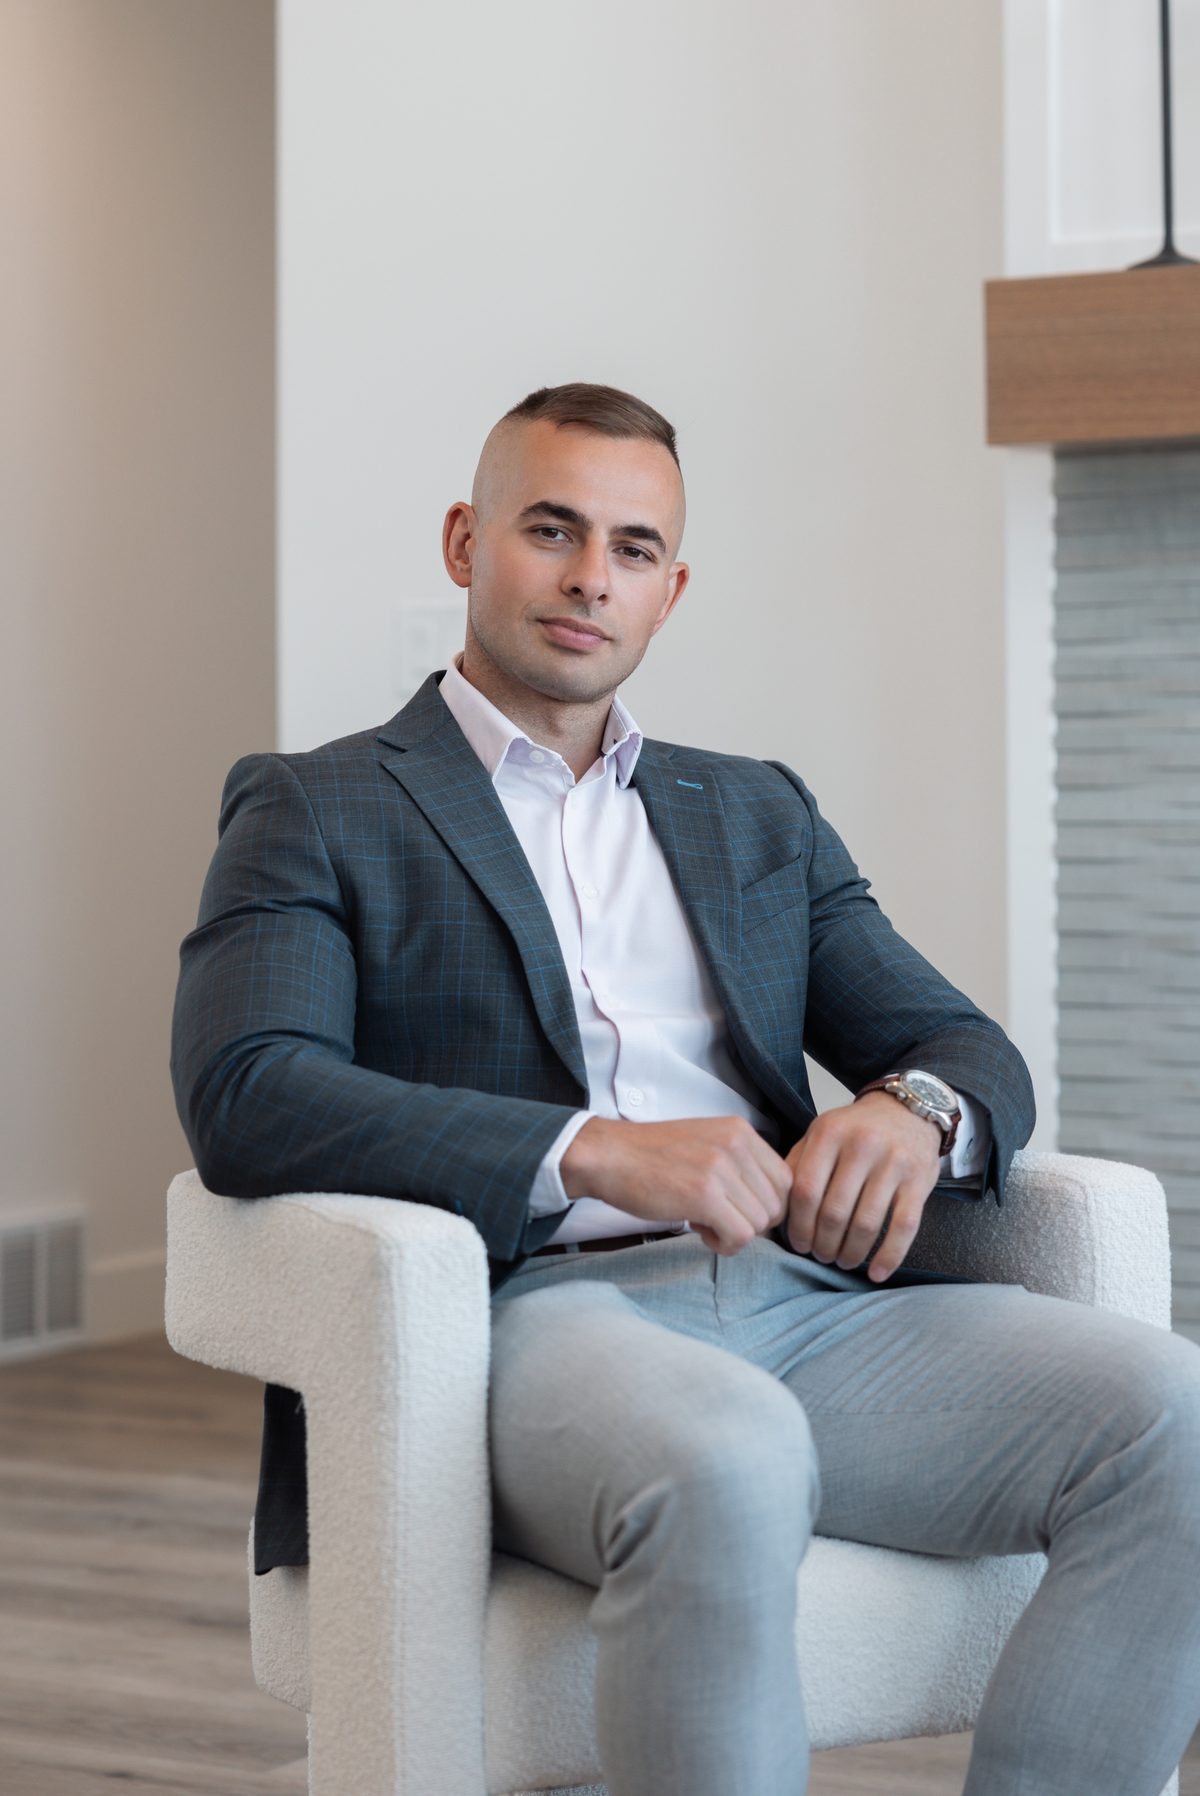
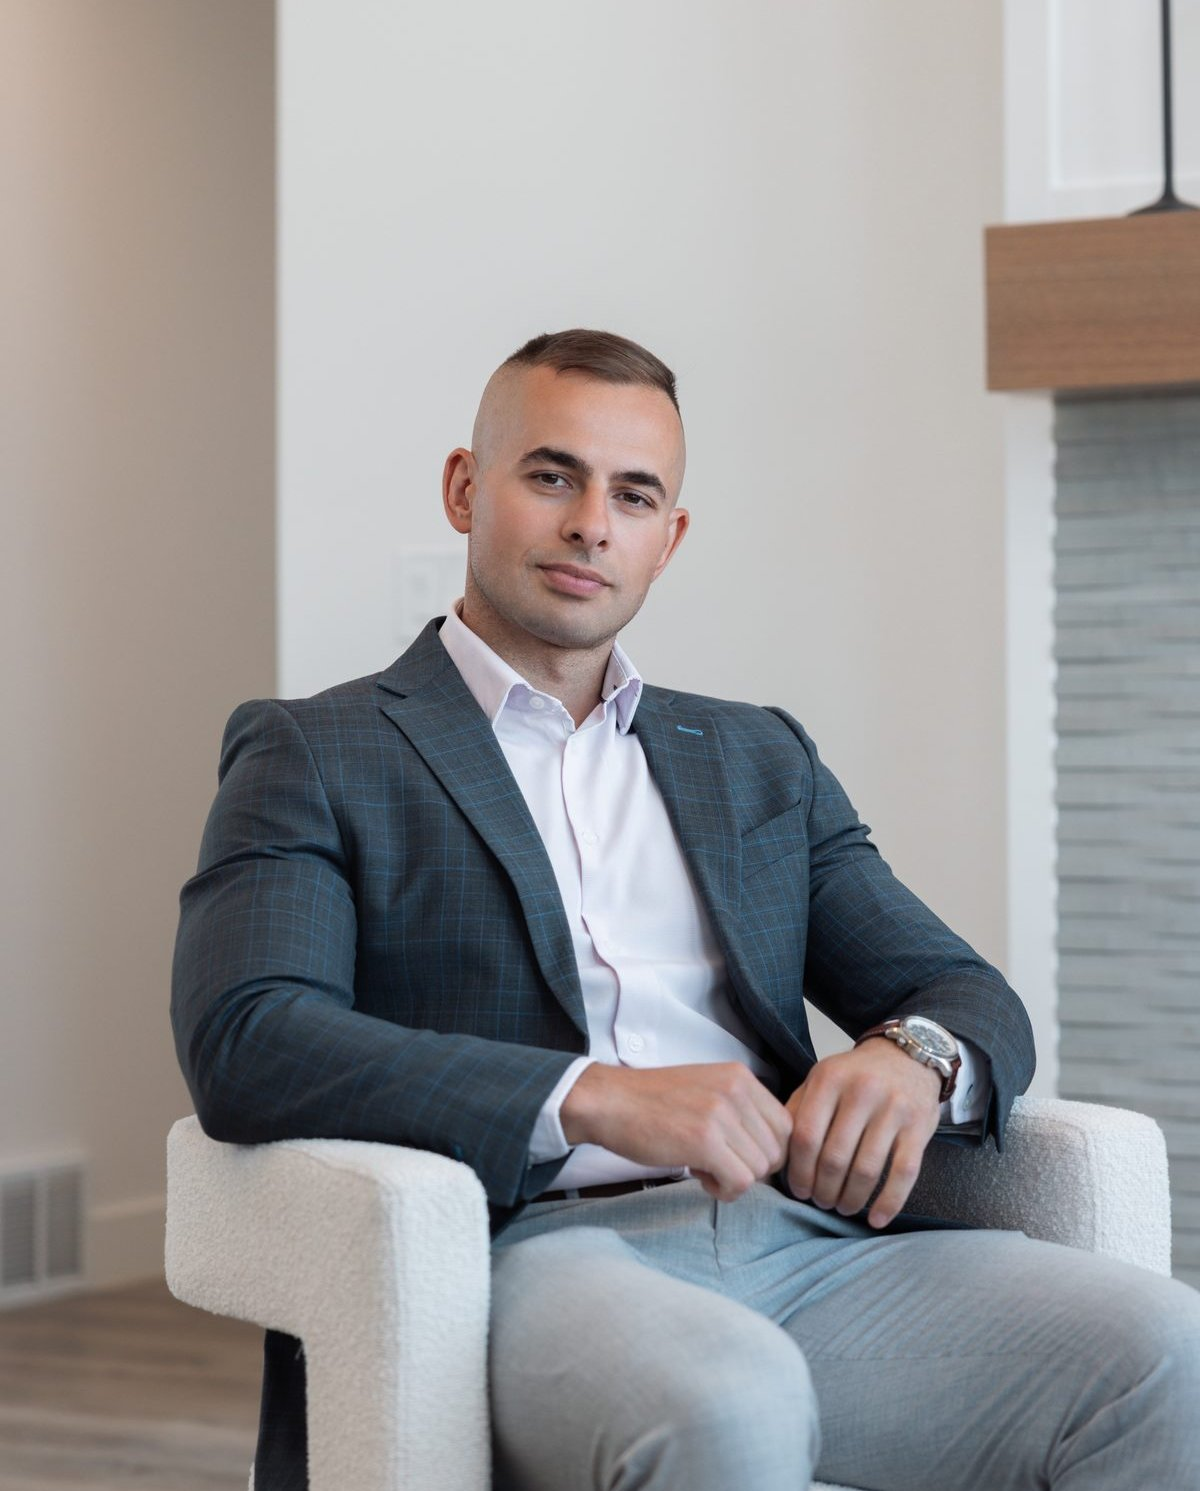
Add files via upload

diff --git a/assets/site.css b/assets/site.css
@@ -33,8 +33,8 @@
   --serif:'Cormorant Garamond','Hoefler Text',Didot,Georgia,'Times New Roman',serif;
   --sans:'Inter',-apple-system,BlinkMacSystemFont,'Segoe UI',Roboto,Helvetica,Arial,sans-serif;
 
-  --wrap:1120px;
-  --narrow:720px;
+  --wrap:1280px;
+  --narrow:860px;
   --pad:clamp(20px,5vw,56px);
   --ease:cubic-bezier(.22,.61,.36,1);
 
@@ -257,9 +257,17 @@ hr{border:0;border-top:1px solid var(--rule);margin:0;}
 @media(max-width:860px){ .split,.split-wide{grid-template-columns:1fr;} }
 
 /* ---------- Photo row ---------- */
-.photo-row{display:grid;grid-template-columns:repeat(auto-fit,minmax(230px,1fr));gap:12px;}
-.photo-row figure{margin:0;}
-.photo-row img{width:100%;height:230px;object-fit:cover;border-radius:2px;}
+.photo-row{display:grid;grid-template-columns:repeat(auto-fit,minmax(260px,1fr));gap:14px;}
+.photo-row figure{margin:0;overflow:hidden;border-radius:2px;}
+.photo-row img{
+  width:100%;aspect-ratio:3/2;object-fit:cover;object-position:center 22%;
+  filter:grayscale(1) contrast(1.04);
+  transition:filter .5s var(--ease),transform .5s var(--ease);
+}
+@media(hover:hover){
+  .photo-row figure:hover img{filter:grayscale(0) contrast(1);transform:scale(1.03);}
+}
+@media(hover:none){ .photo-row img{filter:none;} }
 .photo-row figcaption{margin-top:8px;}
 
 /* ---------- Disclosure list ---------- */
@@ -296,7 +304,7 @@ hr{border:0;border-top:1px solid var(--rule);margin:0;}
 .prose h2{font-family:var(--serif);font-size:clamp(1.65rem,2.6vw,2.1rem);font-weight:400;
   color:#fff;margin:2.1em 0 .65em;}
 .prose figure{margin:2.6em 0;}
-.prose figure img{width:100%;max-height:560px;object-fit:cover;object-position:center 28%;border-radius:2px;}
+.prose figure img{width:100%;height:auto;border-radius:2px;}
 .prose figcaption{margin-top:10px;}
 
 /* ---------- Form card ---------- */
@@ -400,7 +408,7 @@ textarea.inp{resize:vertical;min-height:84px;line-height:1.6;}
 /* ---------- Closing CTA block ---------- */
 .cta-block{display:grid;grid-template-columns:1.1fr .9fr;gap:clamp(26px,4vw,56px);align-items:center;}
 .cta-actions{display:flex;flex-wrap:wrap;gap:12px;margin-top:26px;}
-.cta-block figure img{width:100%;max-height:440px;object-fit:cover;object-position:center 22%;border-radius:2px;}
+.cta-block figure img{width:100%;height:auto;border-radius:2px;}
 @media(max-width:800px){ .cta-block{grid-template-columns:1fr;} }
 
 /* ---------- Footer ---------- */

diff --git a/index.html b/index.html
@@ -28,15 +28,14 @@
 <header class="site-head">
   <div class="wrap head-in">
     <a class="mark" href="index.html">
-      <span class="mark-name">Emanuel Balmus</span>
-      <span class="mark-sub">Real Broker, LLC &nbsp;/&nbsp; The Perry Group</span>
+      <span class="mark-name">Start Here</span>
     </a>
 
     <nav class="nav-links" id="navLinks" aria-label="Main">
       <a href="buyers.html">Buying</a>
       <a href="sellers.html">Selling</a>
       <a href="tools.html">Calculators</a>
-      <a href="story.html">About me</a>
+      <a href="story.html">About</a>
       <a href="contact.html">Contact</a>
     </nav>
 
@@ -420,12 +419,8 @@
              alt="Emanuel toasting with two clients at a closing table">
       </figure>
       <figure>
-        <img src="images/closing-c.jpg" width="1400" height="622"
+        <img src="images/closing-c.jpg" width="1500" height="919"
              alt="Emanuel with a couple on their closing day">
-      </figure>
-      <figure>
-        <img src="images/closing-a.jpg" width="1200" height="528"
-             alt="Emanuel with two clients celebrating a new home">
       </figure>
     </div>
     <p class="small" style="margin-top:12px">Closing days, Utah County.</p>
@@ -538,7 +533,7 @@
       </div>
     </div>
     <figure style="margin:0">
-      <img src="images/portrait-casual.jpg" width="1200" height="947" style="border-radius:3px"
+      <img src="images/portrait-casual.jpg" width="1500" height="1280" style="border-radius:3px"
            alt="Emanuel Balmus outdoors in the Wasatch mountains">
     </figure>
   </div>
@@ -572,7 +567,7 @@
           <li><a href="buyers.html">Buying a home</a></li>
           <li><a href="sellers.html">Selling a home</a></li>
           <li><a href="tools.html">Calculators</a></li>
-          <li><a href="story.html">About me</a></li>
+          <li><a href="story.html">About</a></li>
           <li><a href="contact.html">Contact</a></li>
         </ul>
       </div>

diff --git a/story.html b/story.html
@@ -25,14 +25,13 @@
 <header class="site-head">
   <div class="wrap head-in">
     <a class="mark" href="index.html">
-      <span class="mark-name">Emanuel Balmus</span>
-      <span class="mark-sub">Real Broker, LLC &nbsp;/&nbsp; The Perry Group</span>
+      <span class="mark-name">Start Here</span>
     </a>
     <nav class="nav-links" id="navLinks" aria-label="Main">
       <a href="buyers.html">Buying</a>
       <a href="sellers.html">Selling</a>
       <a href="tools.html">Calculators</a>
-      <a href="story.html" aria-current="page">About me</a>
+      <a href="story.html" aria-current="page">About</a>
       <a href="contact.html">Contact</a>
     </nav>
     <div class="head-cta">
@@ -176,7 +175,7 @@
       </div>
     </div>
     <figure style="margin:0">
-      <img src="images/portrait-casual.jpg" width="1200" height="947" style="border-radius:3px"
+      <img src="images/portrait-casual.jpg" width="1500" height="1280" style="border-radius:3px"
            alt="Emanuel Balmus outdoors in the Wasatch mountains">
     </figure>
   </div>
@@ -207,7 +206,7 @@
           <li><a href="buyers.html">Buying a home</a></li>
           <li><a href="sellers.html">Selling a home</a></li>
           <li><a href="tools.html">Calculators</a></li>
-          <li><a href="story.html">About me</a></li>
+          <li><a href="story.html">About</a></li>
           <li><a href="contact.html">Contact</a></li>
         </ul>
       </div>

diff --git a/buyers.html b/buyers.html
@@ -24,14 +24,13 @@
 <header class="site-head">
   <div class="wrap head-in">
     <a class="mark" href="index.html">
-      <span class="mark-name">Emanuel Balmus</span>
-      <span class="mark-sub">Real Broker, LLC &nbsp;/&nbsp; The Perry Group</span>
+      <span class="mark-name">Start Here</span>
     </a>
     <nav class="nav-links" id="navLinks" aria-label="Main">
       <a href="buyers.html" aria-current="page">Buying</a>
       <a href="sellers.html">Selling</a>
       <a href="tools.html">Calculators</a>
-      <a href="story.html">About me</a>
+      <a href="story.html">About</a>
       <a href="contact.html">Contact</a>
     </nav>
     <div class="head-cta">
@@ -252,7 +251,7 @@
       </div>
     </div>
     <figure style="margin:0">
-      <img src="images/portrait-seated.jpg" width="1200" height="1796" style="border-radius:3px"
+      <img src="images/portrait-seated.jpg" width="1200" height="1490" style="border-radius:3px"
            alt="Emanuel Balmus, Realtor with Real Broker LLC and The Perry Group">
     </figure>
   </div>
@@ -283,7 +282,7 @@
           <li><a href="buyers.html">Buying a home</a></li>
           <li><a href="sellers.html">Selling a home</a></li>
           <li><a href="tools.html">Calculators</a></li>
-          <li><a href="story.html">About me</a></li>
+          <li><a href="story.html">About</a></li>
           <li><a href="contact.html">Contact</a></li>
         </ul>
       </div>

diff --git a/tools.html b/tools.html
@@ -54,14 +54,13 @@
 <header class="site-head">
   <div class="wrap head-in">
     <a class="mark" href="index.html">
-      <span class="mark-name">Emanuel Balmus</span>
-      <span class="mark-sub">Real Broker, LLC &nbsp;/&nbsp; The Perry Group</span>
+      <span class="mark-name">Start Here</span>
     </a>
     <nav class="nav-links" id="navLinks" aria-label="Main">
       <a href="buyers.html">Buying</a>
       <a href="sellers.html">Selling</a>
       <a href="tools.html" aria-current="page">Calculators</a>
-      <a href="story.html">About me</a>
+      <a href="story.html">About</a>
       <a href="contact.html">Contact</a>
     </nav>
     <div class="head-cta">
@@ -373,7 +372,7 @@
       </div>
     </div>
     <figure style="margin:0">
-      <img src="images/portrait-seated.jpg" width="1200" height="1796" style="border-radius:3px"
+      <img src="images/portrait-seated.jpg" width="1200" height="1490" style="border-radius:3px"
            alt="Emanuel Balmus, Realtor with Real Broker LLC and The Perry Group">
     </figure>
   </div>
@@ -404,7 +403,7 @@
           <li><a href="buyers.html">Buying a home</a></li>
           <li><a href="sellers.html">Selling a home</a></li>
           <li><a href="tools.html">Calculators</a></li>
-          <li><a href="story.html">About me</a></li>
+          <li><a href="story.html">About</a></li>
           <li><a href="contact.html">Contact</a></li>
         </ul>
       </div>

diff --git a/contact.html b/contact.html
@@ -20,14 +20,13 @@
 <header class="site-head">
   <div class="wrap head-in">
     <a class="mark" href="index.html">
-      <span class="mark-name">Emanuel Balmus</span>
-      <span class="mark-sub">Real Broker, LLC &nbsp;/&nbsp; The Perry Group</span>
+      <span class="mark-name">Start Here</span>
     </a>
     <nav class="nav-links" id="navLinks" aria-label="Main">
       <a href="buyers.html">Buying</a>
       <a href="sellers.html">Selling</a>
       <a href="tools.html">Calculators</a>
-      <a href="story.html">About me</a>
+      <a href="story.html">About</a>
       <a href="contact.html" aria-current="page">Contact</a>
     </nav>
     <div class="head-cta">
@@ -299,7 +298,7 @@
           <li><a href="buyers.html">Buying a home</a></li>
           <li><a href="sellers.html">Selling a home</a></li>
           <li><a href="tools.html">Calculators</a></li>
-          <li><a href="story.html">About me</a></li>
+          <li><a href="story.html">About</a></li>
           <li><a href="contact.html">Contact</a></li>
         </ul>
       </div>

diff --git a/sellers.html b/sellers.html
@@ -24,14 +24,13 @@
 <header class="site-head">
   <div class="wrap head-in">
     <a class="mark" href="index.html">
-      <span class="mark-name">Emanuel Balmus</span>
-      <span class="mark-sub">Real Broker, LLC &nbsp;/&nbsp; The Perry Group</span>
+      <span class="mark-name">Start Here</span>
     </a>
     <nav class="nav-links" id="navLinks" aria-label="Main">
       <a href="buyers.html">Buying</a>
       <a href="sellers.html" aria-current="page">Selling</a>
       <a href="tools.html">Calculators</a>
-      <a href="story.html">About me</a>
+      <a href="story.html">About</a>
       <a href="contact.html">Contact</a>
     </nav>
     <div class="head-cta">
@@ -235,7 +234,7 @@
           <li><a href="buyers.html">Buying a home</a></li>
           <li><a href="sellers.html">Selling a home</a></li>
           <li><a href="tools.html">Calculators</a></li>
-          <li><a href="story.html">About me</a></li>
+          <li><a href="story.html">About</a></li>
           <li><a href="contact.html">Contact</a></li>
         </ul>
       </div>
